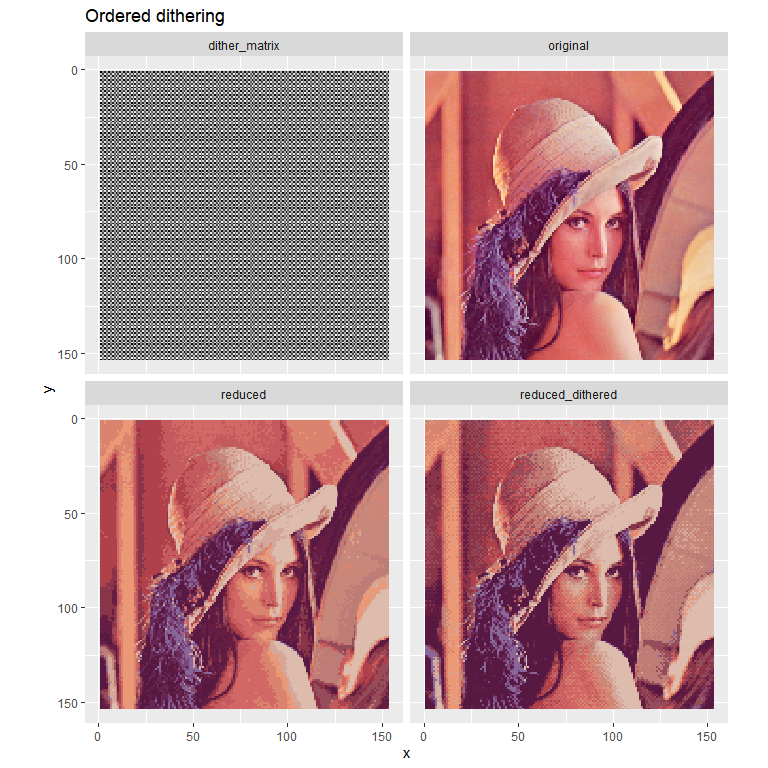
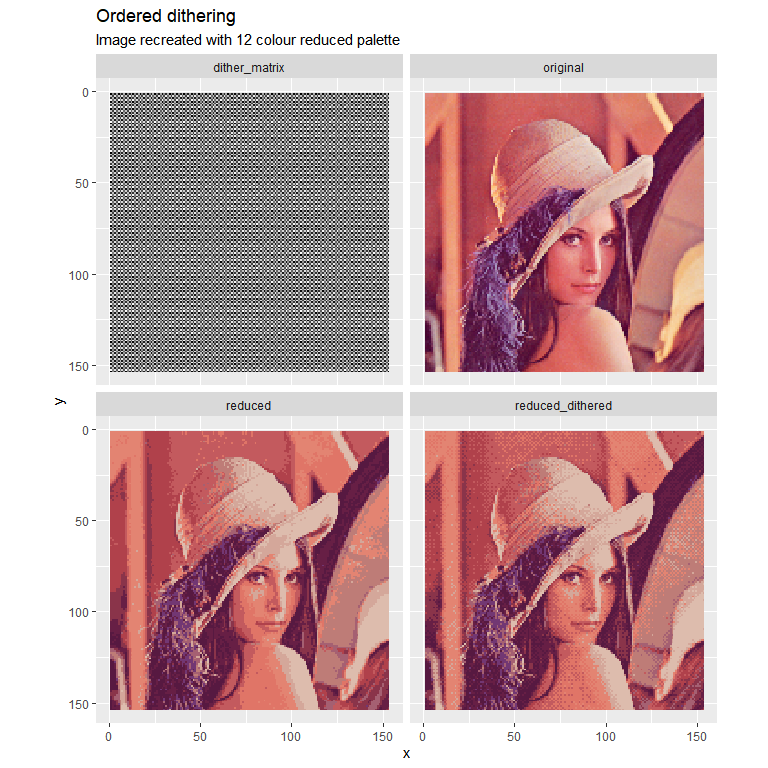
Update readme

diff --git a/README.md b/README.md
@@ -63,12 +63,13 @@ I need a smaller ‘target’ colour palette to make the dithered image from
 
 ``` r
 # Number of colours wanted in smaller target palette
-target_palette_size <- 16
+target_palette_size <- 12
 
-set.seed(4)
+set.seed(5)
 reduced_palette <-
   colorfindr::get_colors('reduced_image.png') %>% 
   colorfindr::make_palette(target_palette_size)
+#> Warning: Quick-TRANSfer stage steps exceeded maximum (= 1170450)
 ```
 
 ![](README_files/figure-gfm/unnamed-chunk-6-1.png)<!-- -->
@@ -140,9 +141,10 @@ dither_mat <-
   rep_mat(nrow_out = imager::height(i2),
           ncol_out = imager::width(i2))
 
+# Append matrix to dataframe and subtract 0.5 from normalised matrix
 i2_df <-
   i2_df %>% 
-  mutate(dither_mat = as.vector(dither_mat))
+  mutate(dither_mat = as.vector(dither_mat)-0.5)
 ```
 
 ## Non-dithered
@@ -175,16 +177,12 @@ dataframe
 f <- 1/target_palette_size
 
 # Apply dither by adding the dither matrix (multiplied by f) to each RGB channel pixel
-# Then re-normalise each channel to be bewtween 0 and 1
 # Then run closest_colour() again
 i2_df <-
   i2_df %>% 
   mutate(r = r + (f*dither_mat),
-         r = (r - min(r))/(max(r) - min(r)),
          g = g + (f*dither_mat),
-         g = (g - min(g))/(max(g) - min(g)),
-         b = b + (f*dither_mat),
-         b = (b - min(b))/(max(b) - min(b))) %>% 
+         b = b + (f*dither_mat)) %>% 
   mutate(reduced_dithered = pmap_chr(list(r, g, b), closest_colour))
 ```
 
@@ -202,7 +200,8 @@ i2_df %>%
   scale_y_reverse()+
   scale_fill_identity()+
   facet_wrap(~k)+
-  labs(title = "Ordered dithering")
+  labs(title = "Ordered dithering",
+       subtitle = paste0("Image recreated with ", target_palette_size, " colour reduced palette"))
 ```
 
 ![](README_files/figure-gfm/unnamed-chunk-12-1.png)<!-- -->
